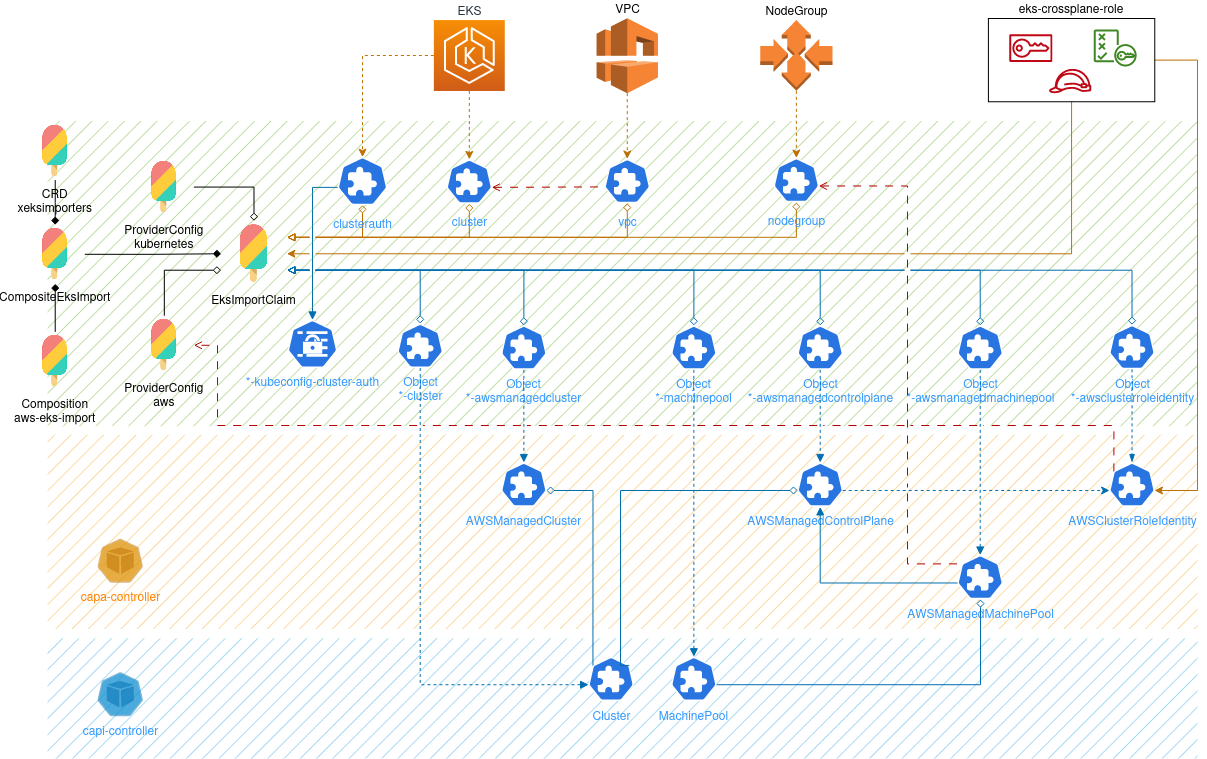
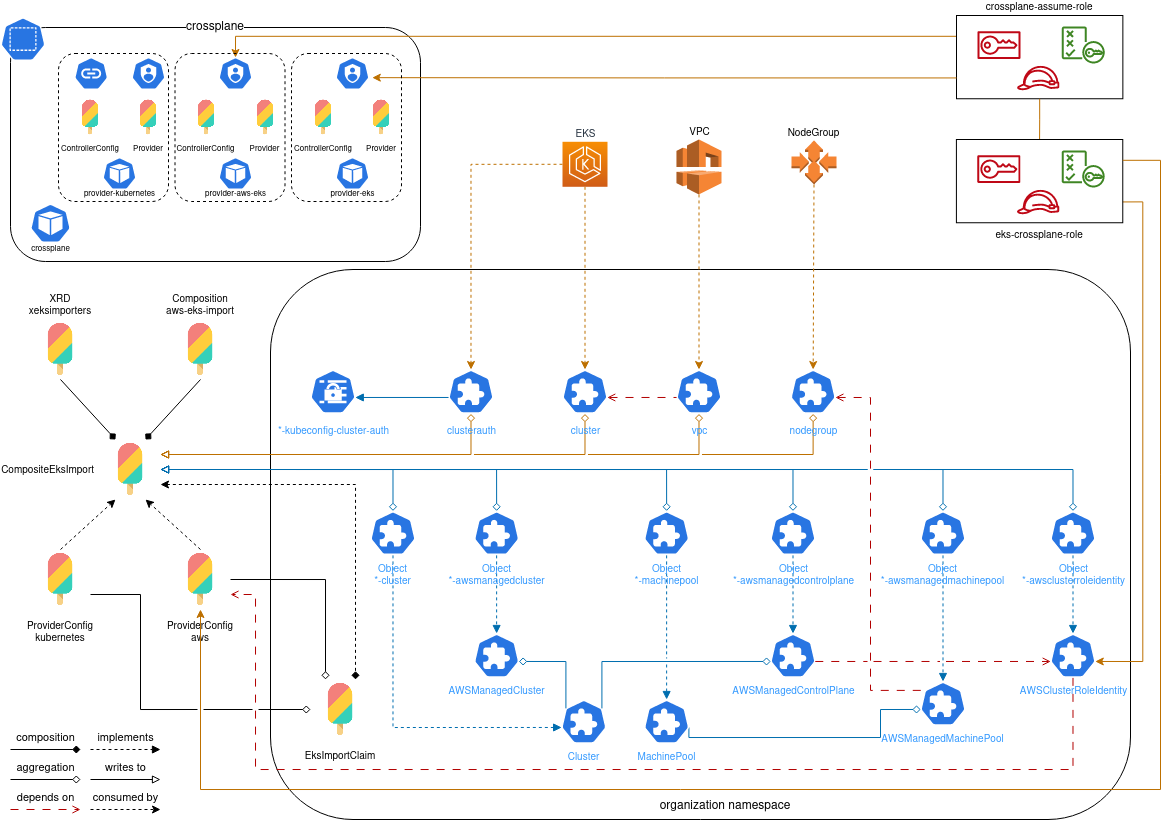
Diagram was hard to understand, removed some duplication in composition.

Changed region(s): [[0.0, 0.0, 1.0, 1.0], [0.0, 0.0, 0.0616, 0.0909], [0.8007, 0.0909, 0.8315, 0.1212]]

diff --git a/docs/composition-breakdown.md b/docs/composition-breakdown.md
@@ -1,0 +1,94 @@
+# Composition breakdown
+
+To better understand what is going on inside the [`composition`](../xrd/composition.yaml)
+file, this document breaks down each component in order to better explain the
+process from an architectural perspective, showing where information is coming 
+from and going to.
+
+Inside our [`CompositeResourceDefinition`](../xrd/definition.yaml) we define a
+number of fields we require to be populated from the claim, and a number that 
+are to be populated into the status field. As the claim is applied, information
+flows between the composition and the claim as data is applied and retrieved.
+
+To better understand what compositions are, please see the [crossplane 
+documentation on this topic](https://docs.crossplane.io/latest/concepts/compositions/)
+
+## Selectors
+
+So the claim selects the correct composition, this implementation defines two
+specific labels. `component` and `provider` .
+
+These are used inside the claim to retrieve the correct composition that is
+required for building EKS imports
+
+```yaml
+    compositionSelector:
+      matchLabels:
+        component: ...
+        provider: ...
+```
+
+Any crossplane composition must provide unique label values to support placing
+multiple compositions behind a single definition without the risk of incorrectly
+selecting an invalid composition for the claim type.
+
+## Patch Sets
+
+The composition defines 3 distinct patch sets.
+
+- metadata
+- awsConfig
+- kubernetesConfig
+
+There is a patch set shared amongst all providers (metadata) and a patchset for
+each unique provider group.
+
+When defining patchsets you must take care to ensure there is no duplication of
+values between patchsets where multiple patchsets will be applied to a composite
+resource. If this becomes the case, the last applied patch wins and may result
+in an incorrectly patched resource.
+
+For more information on patchsets please see the [documentation on this topic](https://docs.crossplane.io/latest/concepts/compositions/#patch-sets)
+
+## Resources
+
+Each resource is made up of 3 parts, a name, a base and patches.
+
+- `name` This can be anything as long as it's unique. This is used by crossplane
+  internals to identify the different composite resources on the stack.
+- `base` The base consists of the composite resource specification. This in
+  turn can be broken down into:
+
+  - `apiVersion`
+  - `kind`
+  - `metadata`
+  - `spec` where for the purposes of resource creation, `spec` consists of
+    two primary elements that are required for the patching.
+    - `forProvider` This is information we will give to the resource for it to
+      be created or managed inside the target environment
+    - `status.atProvider` This is information crossplane discovers about the
+      resource inside the target environment.
+- `patches` The capability of taking information from one place and writing it
+  to another.
+
+## Patching
+
+Although relatively straightforward, patching is probably the most daunting part
+of writing crossplane resources. This is generally because even a simple XRD
+may require many patches to create resources inside it.
+
+This complexity can be compounded when working with the `kubernetes` provider
+as it defines its own patching methods which can in turn be patched by crossplane
+internals.
+
+### Crossplane patching
+
+For any given resource patching crossplane provides two patching types.
+
+- `FromCompositeFieldPath` This is the default when not specified and it used
+  to take information from the composition and pass this to the current
+  composite resource.
+- `ToCompositeFieldPath` This takes information from the composite resource and 
+  hands this back to the composition.
+
+
